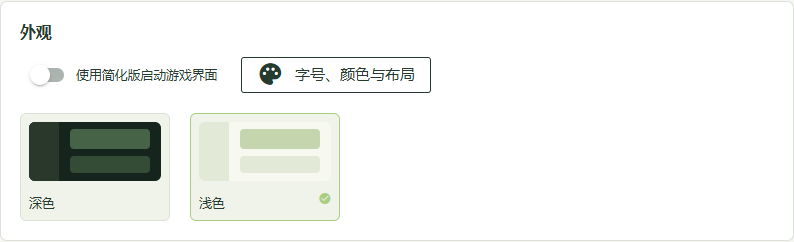
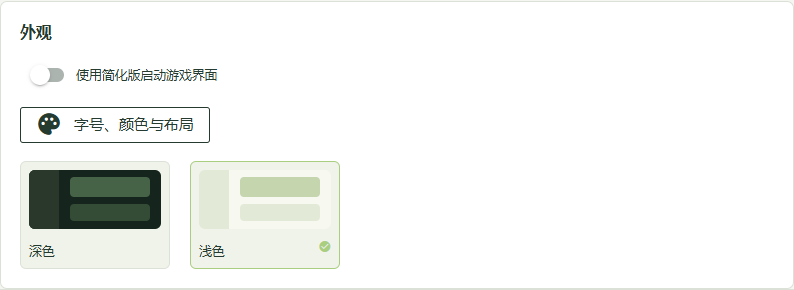
fix: place appearance switch and customization button on separate rows

diff --git a/client/src/css/app.scss b/client/src/css/app.scss
@@ -3045,9 +3045,9 @@ a:focus-visible {
 
 .settings-appearance-actions {
   display: flex;
-  flex-wrap: wrap;
-  align-items: center;
-  gap: 12px 24px;
+  flex-direction: column;
+  align-items: flex-start;
+  gap: 12px;
   margin: 12px 0 18px;
 }
 .settings-appearance-actions .q-toggle {

diff --git a/docs/0.3.3外观布局修复.md b/docs/0.3.3外观布局修复.md
@@ -1,8 +1,8 @@
 # 0.3.3 外观布局修复
 
-用户截图中的简化首页开关与“字号、颜色与布局”按钮直接作为相邻行内组件排列，没有间距，默认字体也会紧贴。修复为独立flex操作行，横向间距24px、换行间距12px，组件限制在容器内；主题卡片支持换行，移除空段落。
+用户截图中的简化首页开关与“字号、颜色与布局”按钮直接作为相邻行内组件排列，没有间距，默认字体也会紧贴。按用户追加要求，开关固定在上一行，个性化按钮固定在下一行，垂直间距12px，组件限制在容器内；主题卡片支持换行，移除空段落。
 
-实际打包桌面在1024×680窗口、15和22px字体下检查两控件有明确间距且无横向溢出。截图docs/screenshots/033-appearance-15.png、033-appearance-22.png。未重复游戏安装、网络或社区检查。
+实际打包桌面在1024×680窗口、15和22px字体下检查两控件固定上下排列且有明确间距且无横向溢出。截图docs/screenshots/033-appearance-15.png、033-appearance-22.png。未重复游戏安装、网络或社区检查。
 
 版本0.3.3，完整构建完成，客户端与服务端独立打包；服务端仅同步版本号。保留0.3.2的五档并发与默认64、公告页签统一样式和0.3.1下载修复。GitHub沿用0xiaoyun0/HXZ_LAUNCHER，使用独立v0.3.3标签与Release，不改写旧版附件。
 

diff --git a/README.md b/README.md
@@ -14,7 +14,7 @@
 
 0.3.2 新增五档下载并发，默认64、最高128；统一公告页签的字体、间距与选中样式，支持刷新和后退保持页签。详见 [0.3.2 说明](docs/0.3.2并发与界面.md)。
 
-0.3.3 修复设置页外观开关与个性化按钮挤在一起的问题，增加间距与自动换行。
+0.3.3 修复设置页外观开关与个性化按钮挤在一起的问题，开关与按钮固定分为上下两行。
 
 下载：[GitHub Releases](https://github.com/0xiaoyun0/HXZ_LAUNCHER/releases)。
 

diff --git a/CHANGELOG.md b/CHANGELOG.md
@@ -3,7 +3,7 @@
 ## 0.3.3
 
 - 修复设置页外观区域开关与个性化按钮紧贴、字号放大时布局拥挤的问题。
-- 操作行增加间距并支持换行，主题卡片支持窄区域换行；移除用于撑间距的空段落。
+- 开关与个性化按钮固定上下分行，保留垂直间距，主题卡片支持窄区域换行；移除用于撑间距的空段落。
 
 ## 0.3.2
 
